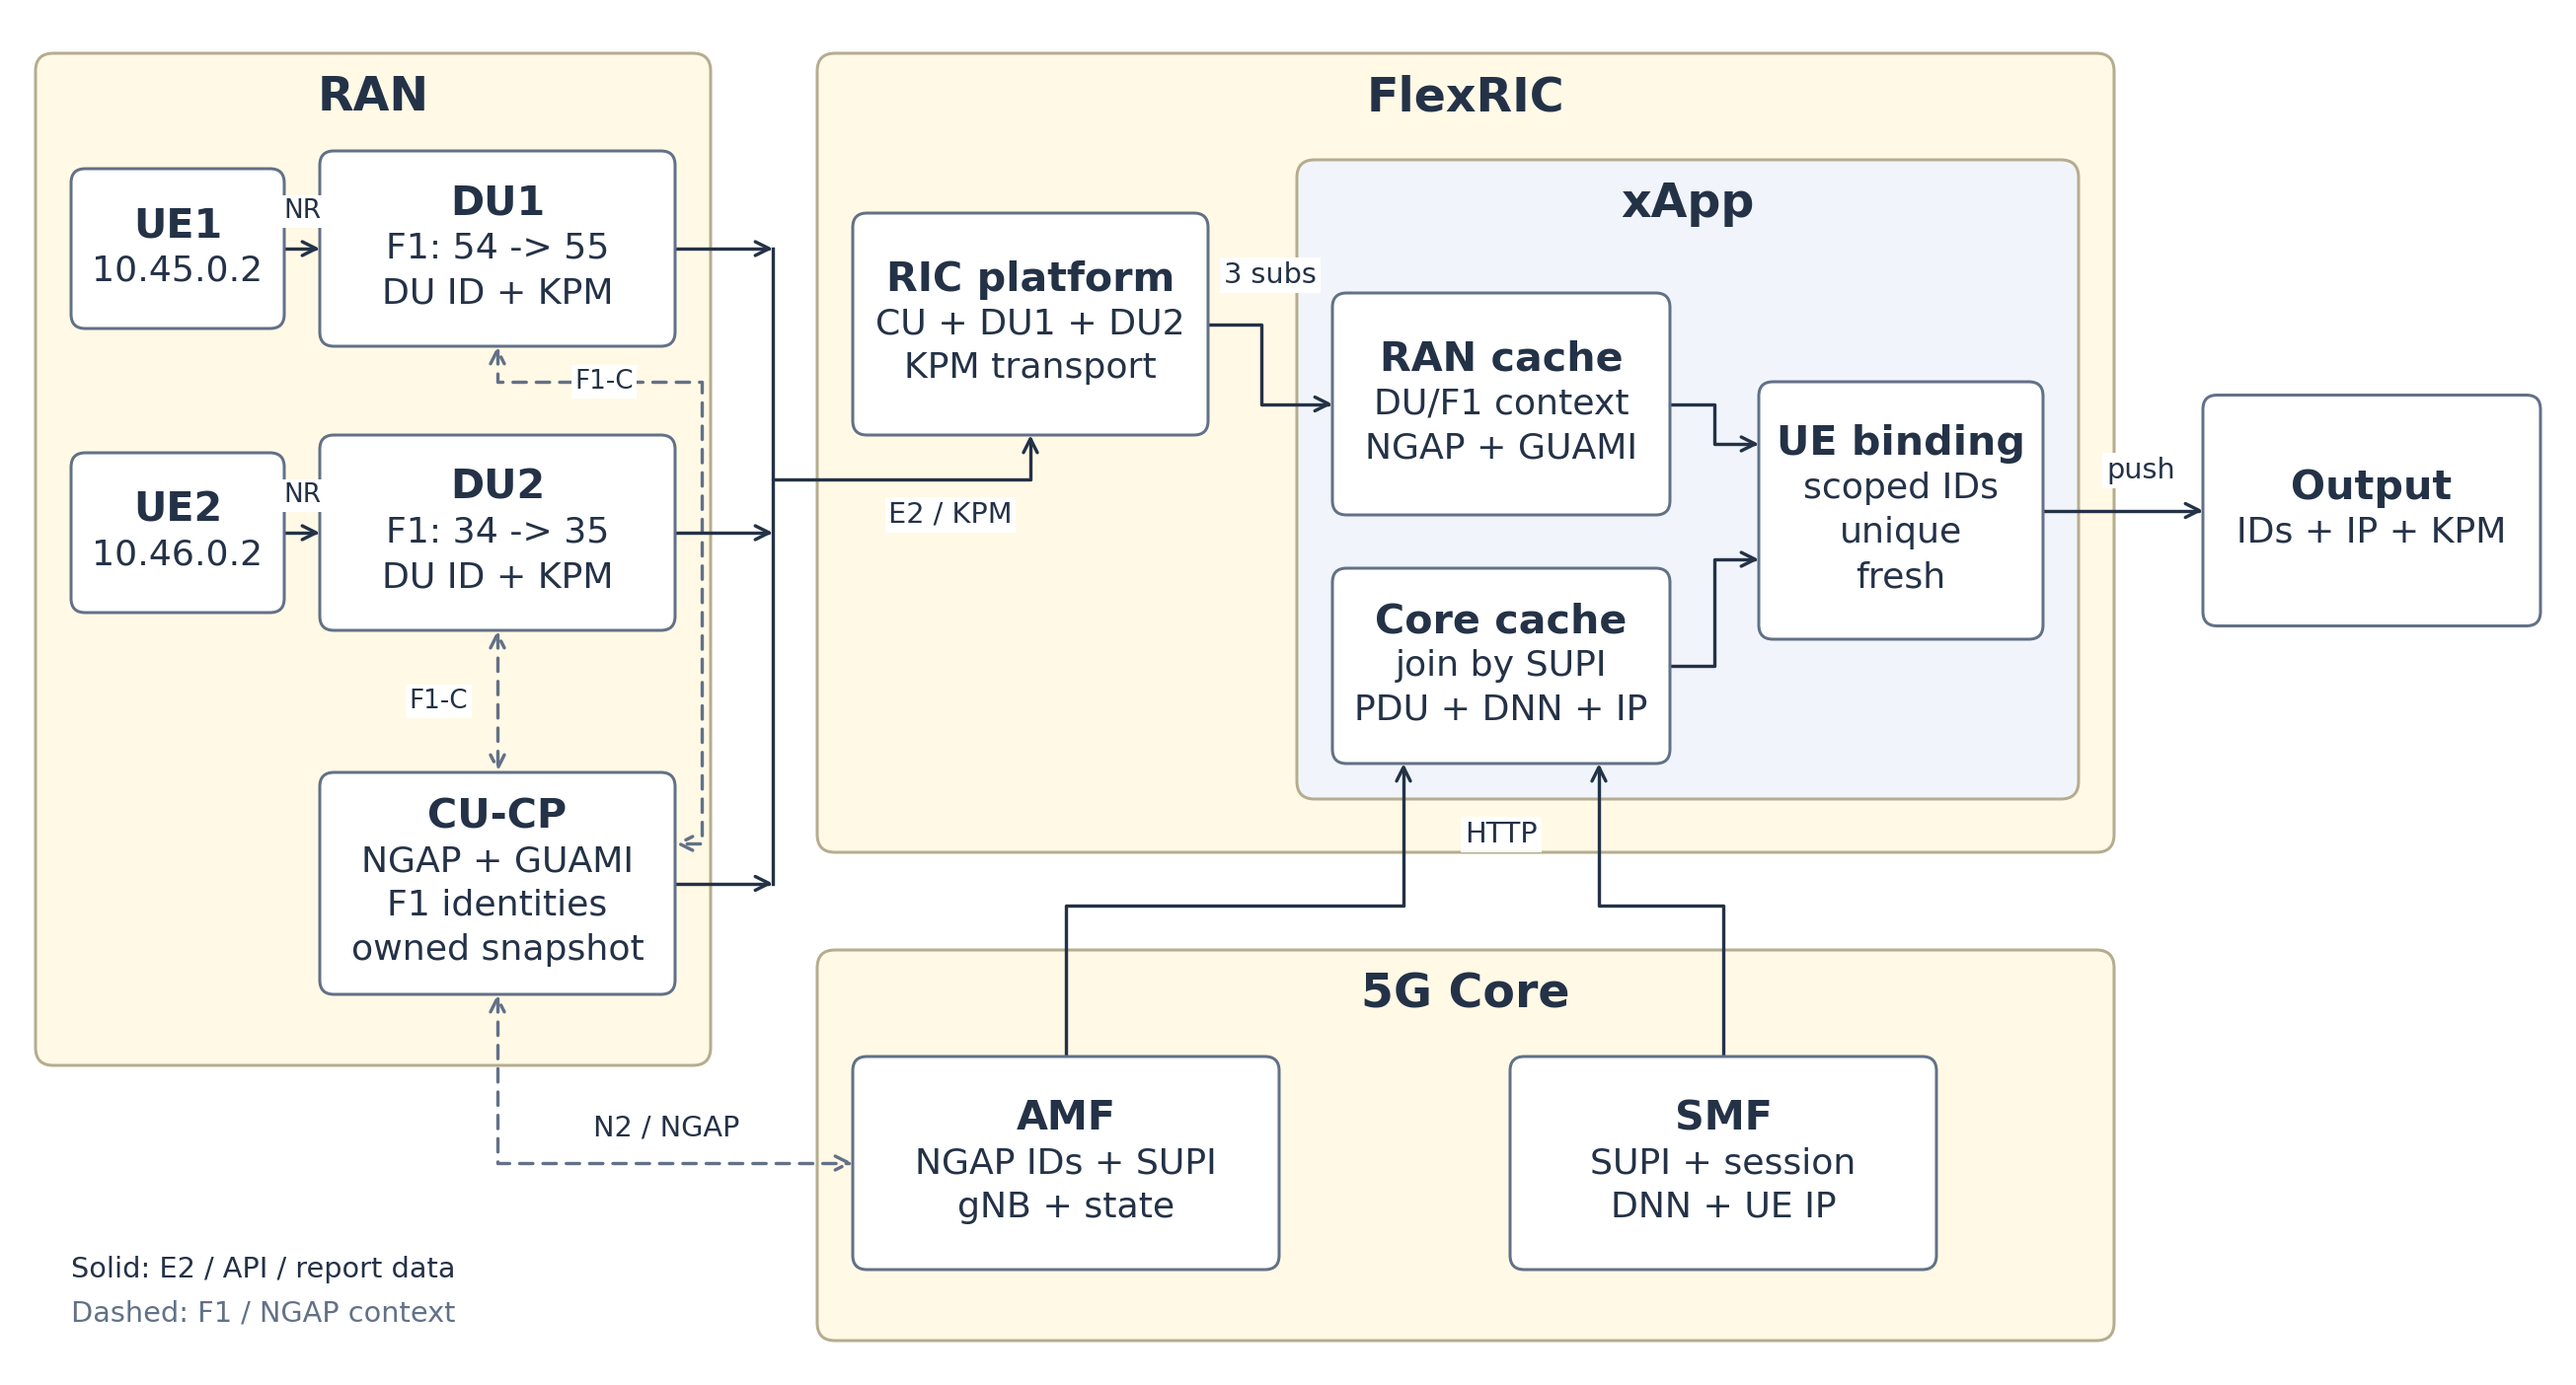
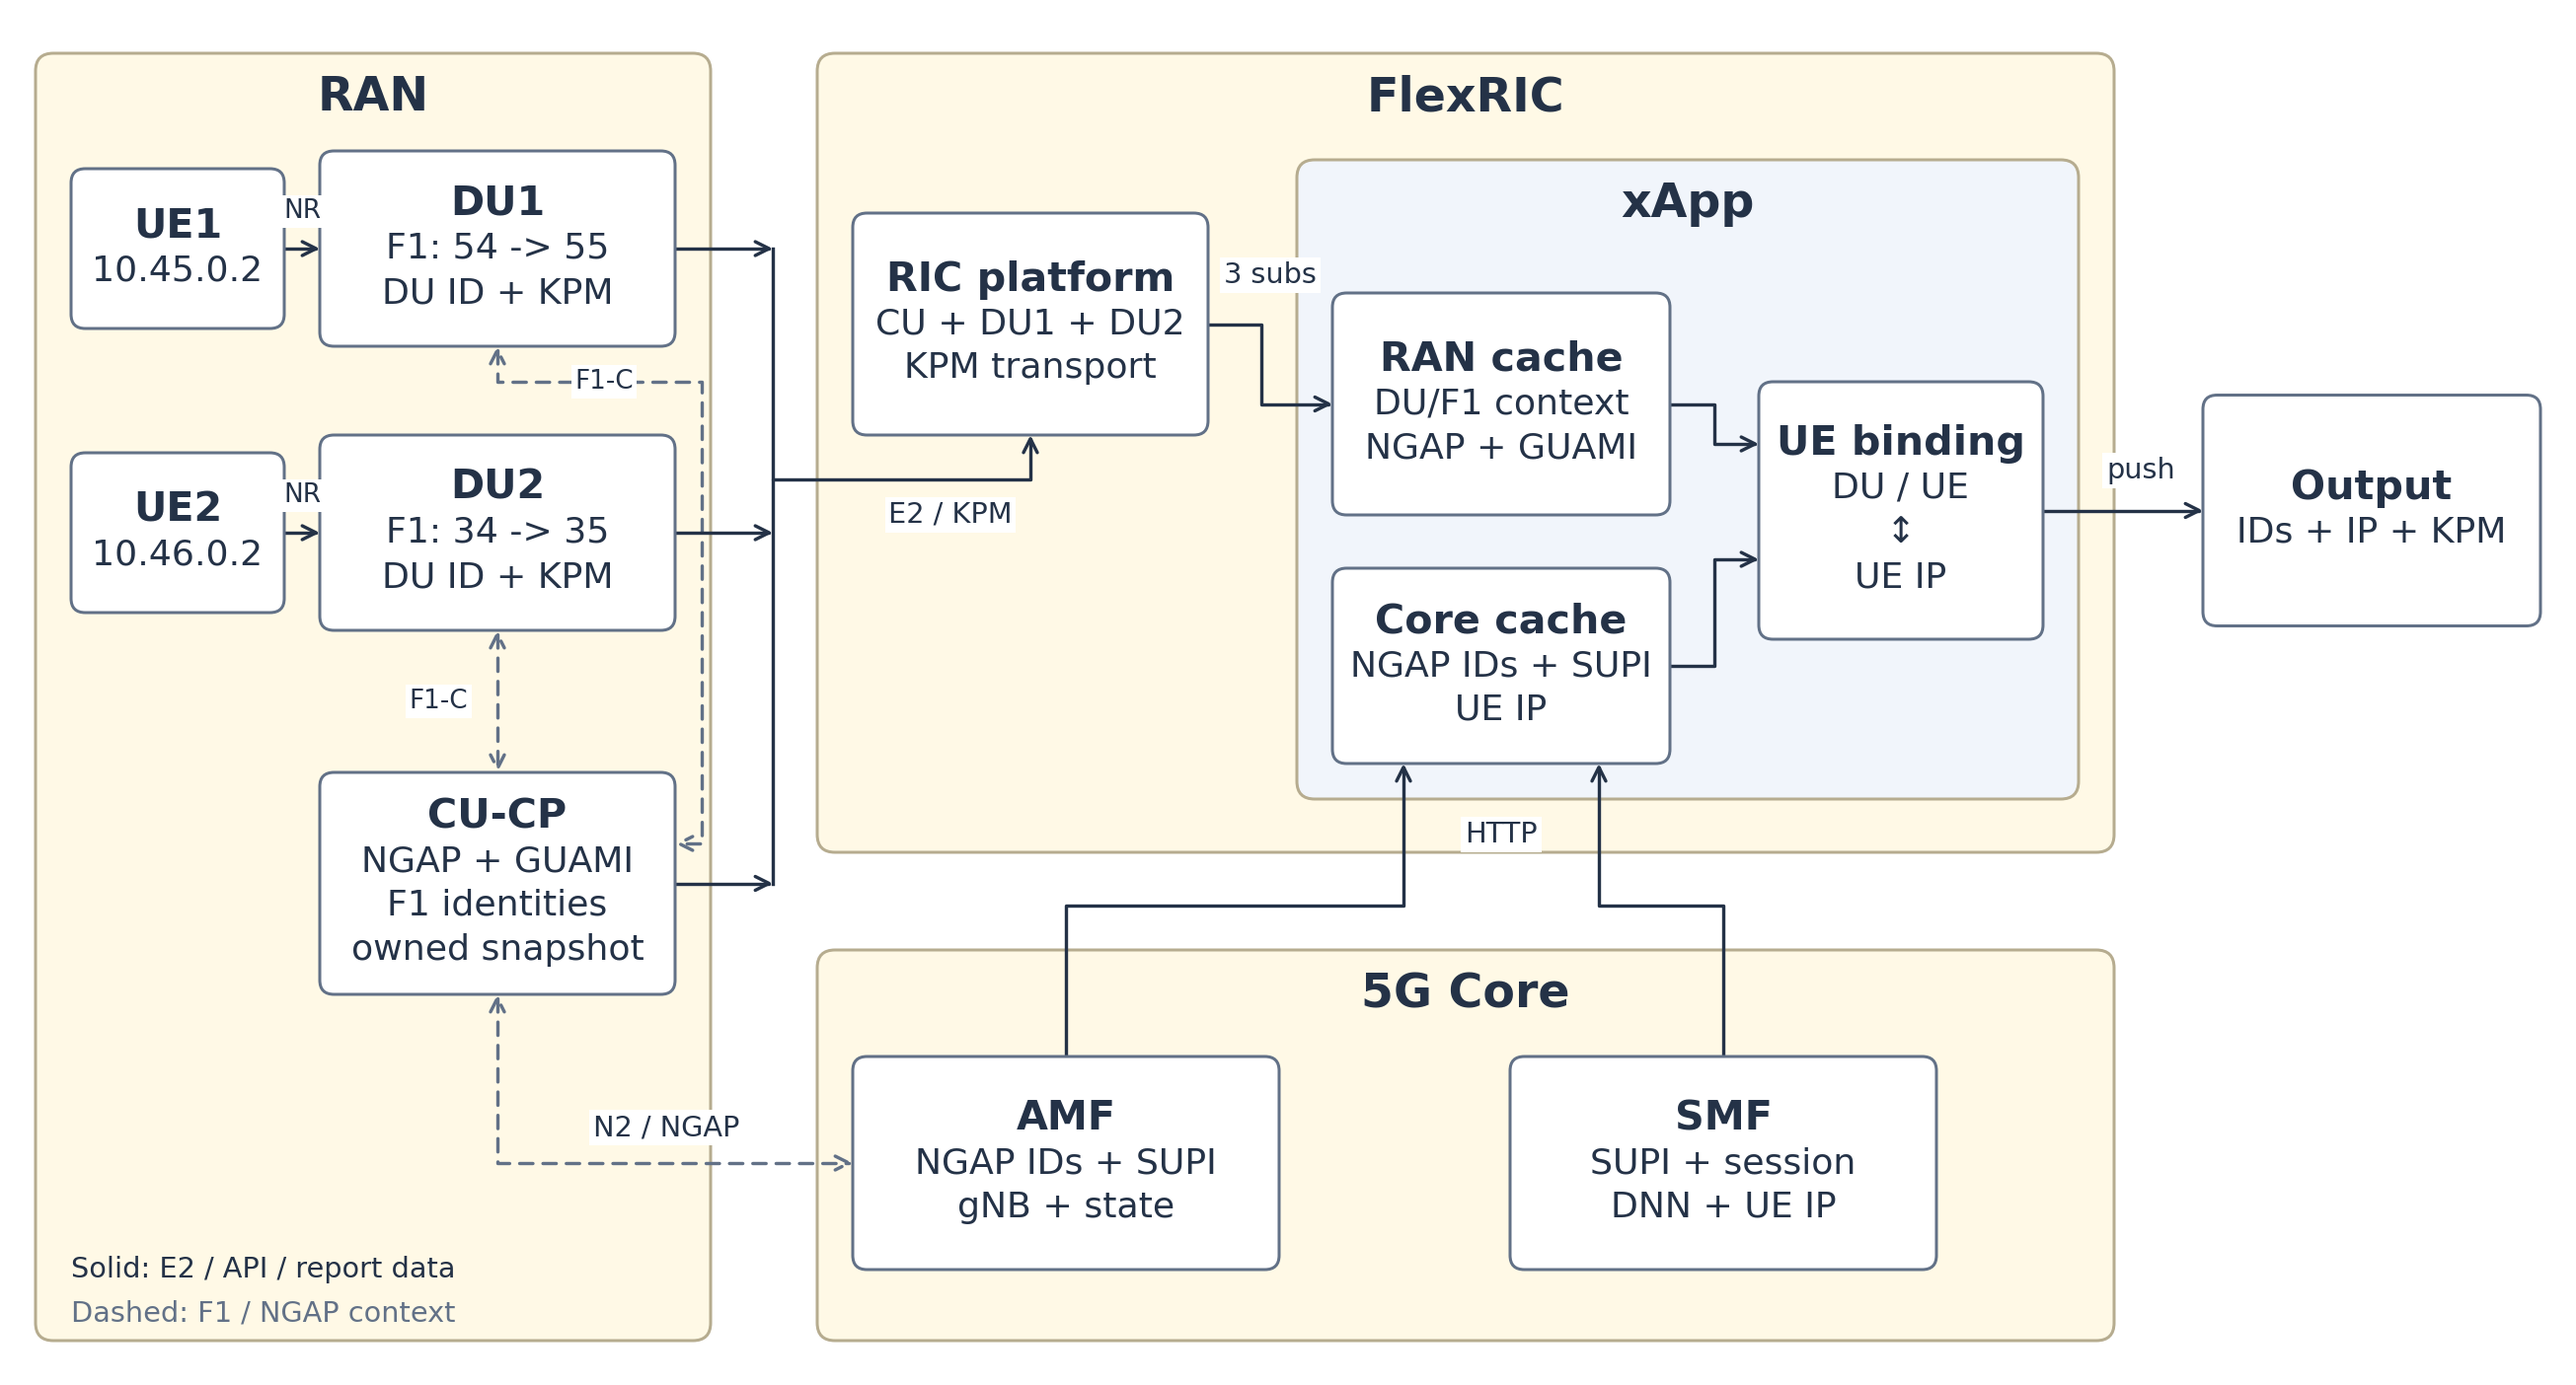
update ip binding diagram

Changed region(s): [[0.0, 0.7657, 0.2793, 0.9801], [0.5276, 0.4594, 0.6517, 0.5207], [0.6828, 0.3369, 0.7759, 0.4288]]

diff --git a/docs/figures/ue_identity_topology.py b/docs/figures/ue_identity_topology.py
@@ -35,8 +35,8 @@ NODES = {
     "amf": (480, 65, 240, 120, "AMF", ["NGAP IDs + SUPI", "gNB + state"]),
     "smf": (850, 65, 240, 120, "SMF", ["SUPI + session", "DNN + UE IP"]),
     "radio": (750, 490, 190, 125, "RAN cache", ["DU/F1 context", "NGAP + GUAMI"]),
-    "core": (750, 350, 190, 110, "Core cache", ["join by SUPI", "PDU + DNN + IP"]),
-    "join": (990, 420, 160, 145, "UE binding", ["scoped IDs", "unique", "fresh"]),
+    "core": (750, 350, 190, 110, "Core cache", ["NGAP IDs + SUPI", "UE IP"]),
+    "join": (990, 420, 160, 145, "UE binding", ["DU / UE", "\u2195", "UE IP"]),
     "output": (1240, 427.5, 190, 130, "Output", ["IDs + IP + KPM"]),
 }
 
@@ -73,7 +73,7 @@ def main():
         ax.text(x, y, text, ha="center", va="center", fontsize=size, color=INK,
                 bbox=dict(facecolor="white", edgecolor="none", pad=1.5), zorder=6)
 
-    group(20, 180, 380, 570, "RAN")
+    group(20, 25, 380, 725, "RAN")
     group(460, 25, 730, 220, "5G Core")
     # Logical FlexRIC scope; platform and xApp remain separate processes.
     group(460, 300, 730, 450, "FlexRIC")
